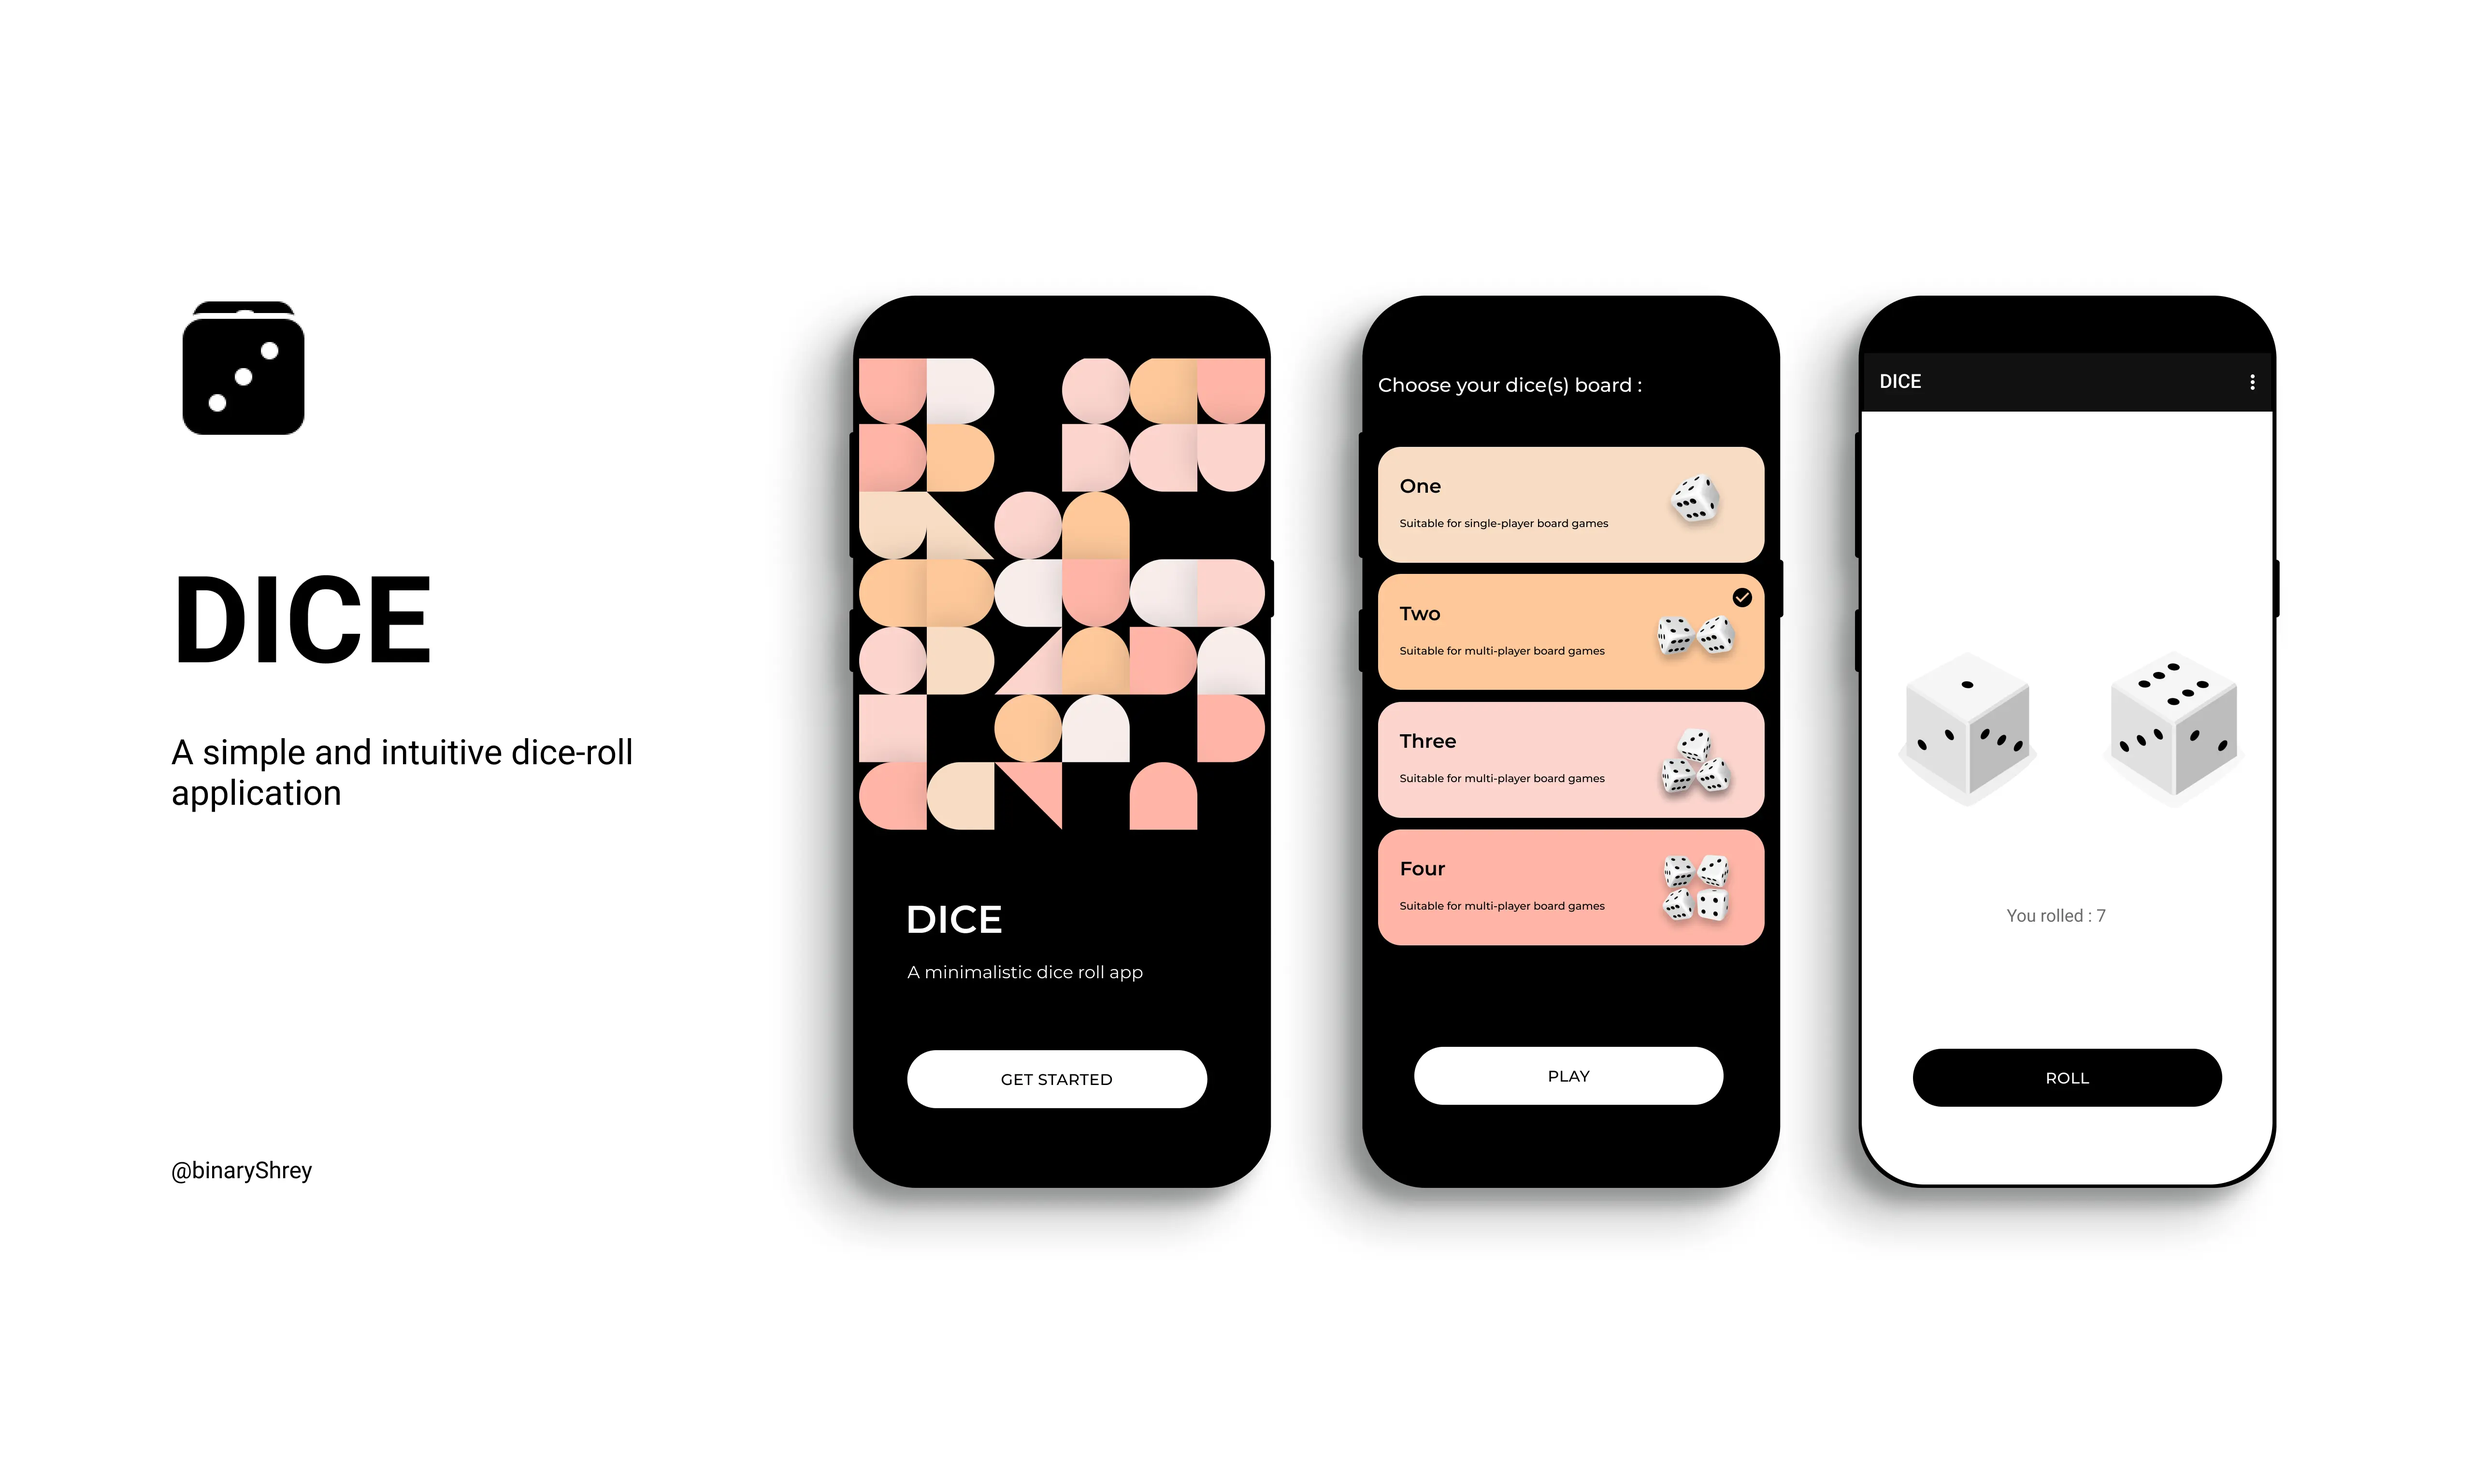
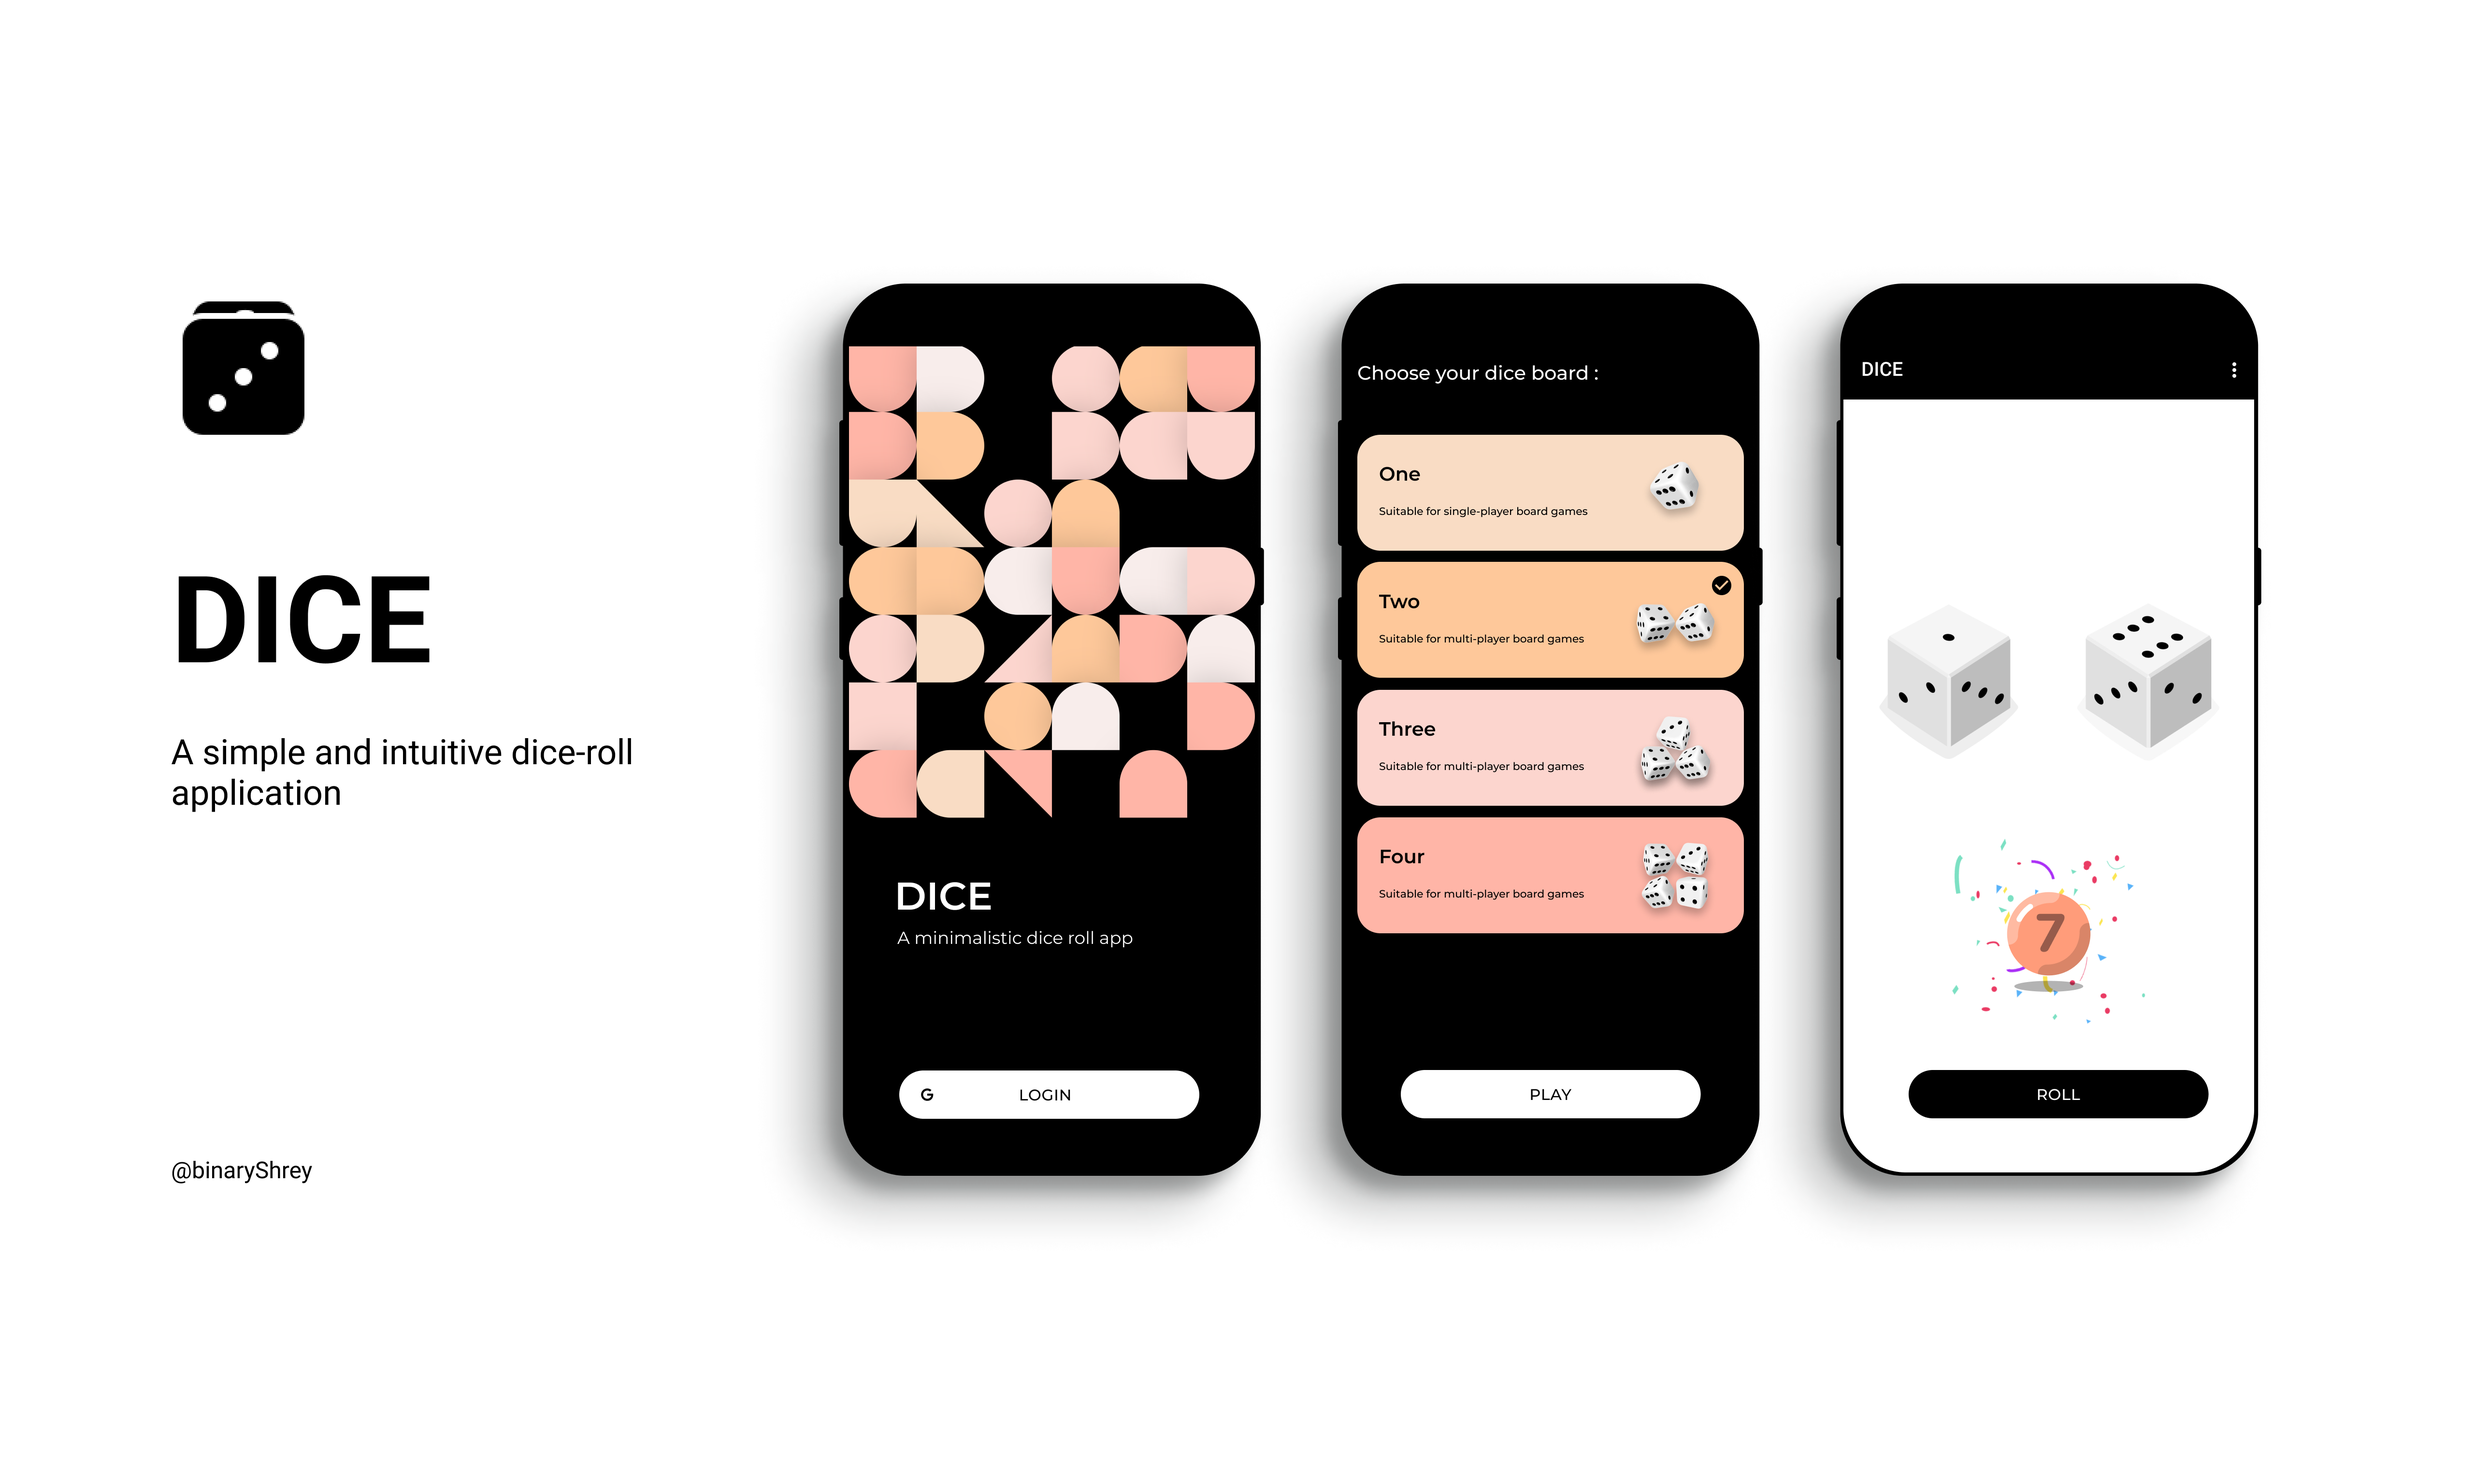
updates README.md

Changed region(s): [[0.3125, 0.1875, 0.9375, 0.8438]]

diff --git a/README.md b/README.md
@@ -9,7 +9,7 @@ Dice 🎲 is a minimalistic, intuitive and an ad-free dice-roll application📱 
 
 Download the latest version :
 
-[![Dice App](https://img.shields.io/badge/DICE%20%F0%9F%8E%B2-APK-orange.svg?style=for-the-badge&logo=android)](https://github.com/binaryshrey/Dice/releases/download/v1.0.1/dice-release.apk)
+[![Dice App](https://img.shields.io/badge/DICE%20%F0%9F%8E%B2-APK-orange.svg?style=for-the-badge&logo=android)](https://github.com/binaryshrey/Dice/releases/download/v1.2.0/dice-release.apk)
 
 <br />
 
@@ -25,6 +25,7 @@ Download the latest version :
   - [Jetpack Navigation](https://developer.android.com/guide/navigation) : Navigation refers to the interactions that allow users to navigate across, into, and back out from the different pieces of content within your app
   - [Jetpack Preference Setting](https://developer.android.com/develop/ui/views/components/settings) : Settings allow users to change the functionality and behavior of an application.
   - [Splash Screen API](https://developer.android.com/develop/ui/views/launch/splash-screen) : Splash Screen is usually the first screen visible to the user when the application is launched.
+  - [FireBase Auth](https://firebase.google.com/docs/auth) : Firebase Authentication provides backend services, easy-to-use SDKs, and ready-made UI libraries to authenticate users to your app
   
 - [Material Components for Android](https://github.com/material-components/material-components-android) : Modular and customizable Material Design UI components for Android.
 - [Figma](https://figma.com/) : Figma is a vector graphics editor and prototyping tool which is primarily web-based.
